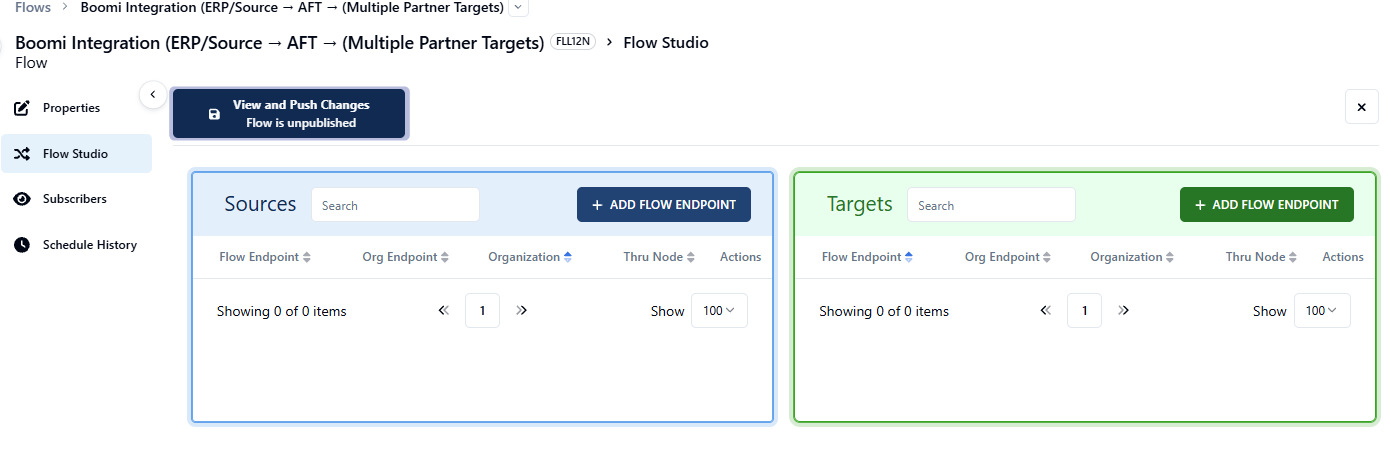
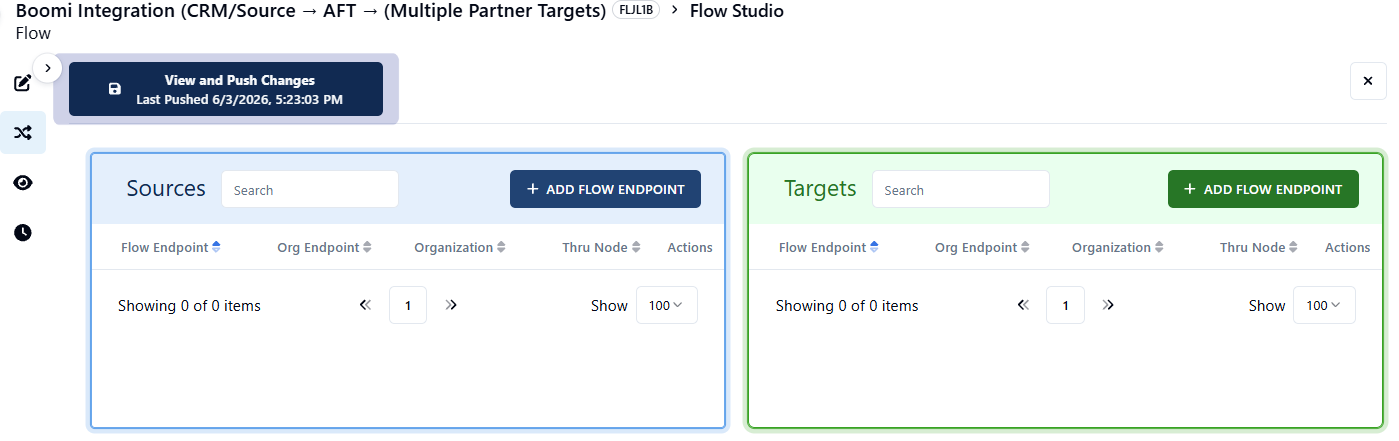
Add files via upload

diff --git a/labs/mft-erp-to-partner/exercise-1.html b/labs/mft-erp-to-partner/exercise-1.html
@@ -229,7 +229,7 @@
             <div class="instruction-num">2</div>
             <div class="instruction-body">
               <p>Name the Flow:</p>
-              <pre><code>Boomi Integration (CRM/Source → AFT → (Multiple Partner Targets)</code></pre>
+              <pre><code>Boomi Integration (CRM/Source → AFT → Multiple Partner Targets)</code></pre>
               <figure class="screenshot"><img src="images/image55.png" alt="Name the Flow"></figure>
             </div>
           </li>
